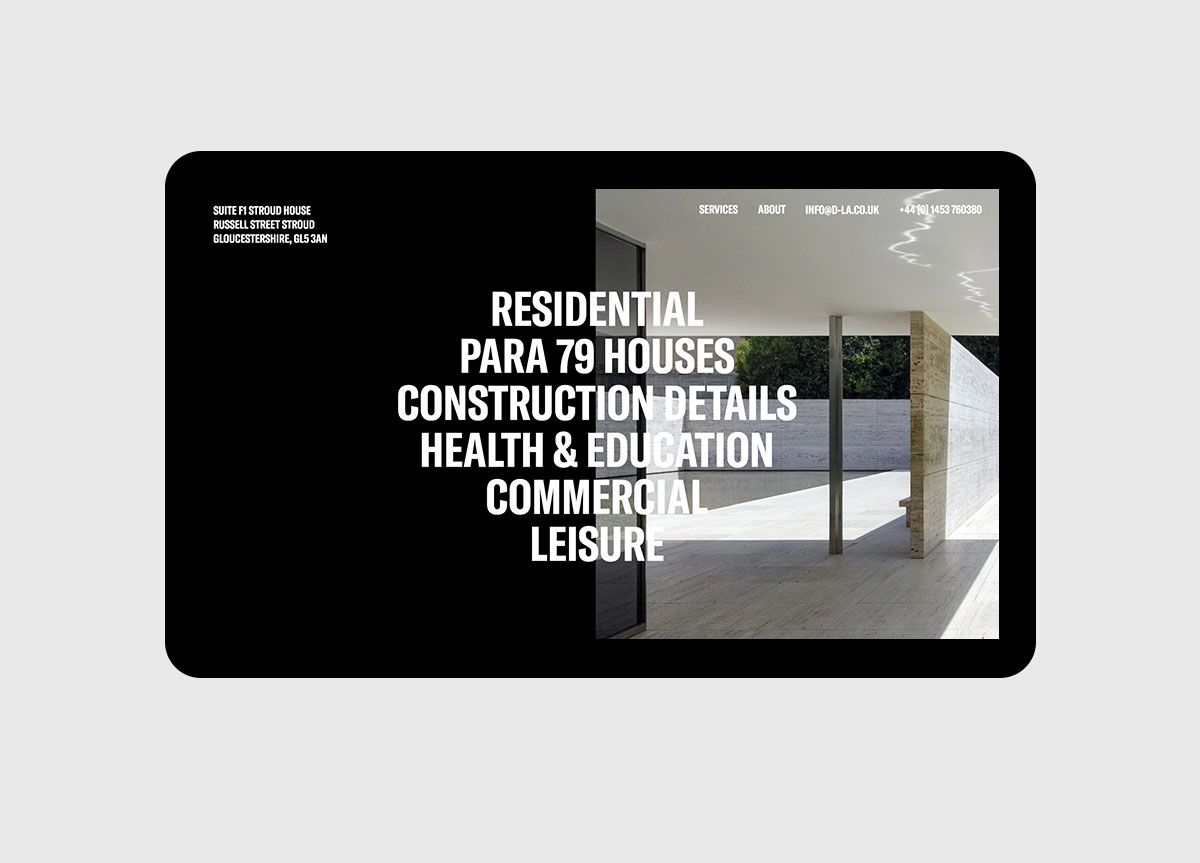
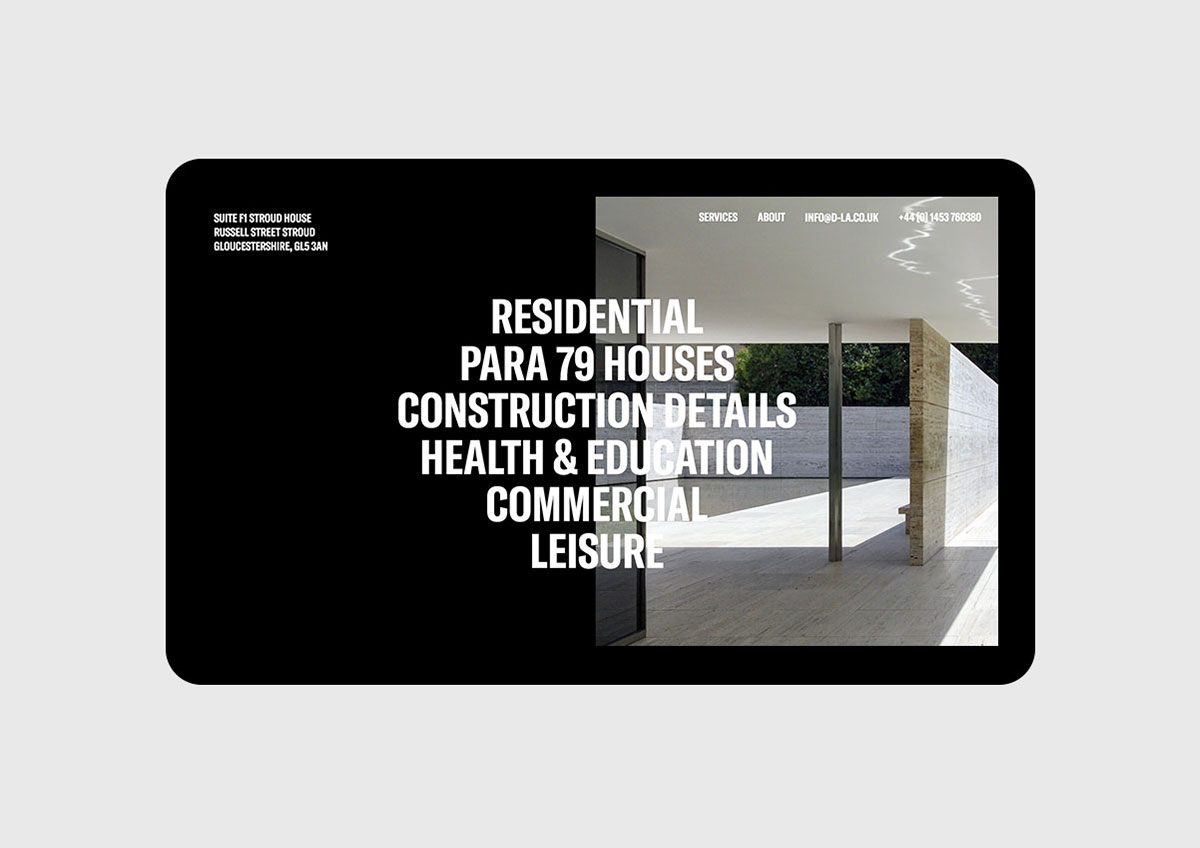
update media

Changed region(s): [[0.1233, 0.1533, 0.8633, 0.7052], [0.1233, 0.7052, 0.8633, 0.8278]]

diff --git a/app/src/views/single/style.scss b/app/src/views/single/style.scss
@@ -28,7 +28,13 @@
                 padding-top: 0vh;
                 padding-bottom: 5vw;
                 h2 {
-                    font-size: 28px;
+                    font-size: 24px;
+                    line-height: 1.4em;
+
+                    small {
+                        font-size: 17px;
+                        margin-bottom: 0;
+                    }
                 }
             }
 

diff --git a/app/src/views/about/style.scss b/app/src/views/about/style.scss
@@ -28,8 +28,8 @@
 
             margin-top: -15vh;
 
-           font-size: 28px;
-           line-height: 1.2em;
+           font-size: 24px;
+           line-height: 1.4em;
 
            br {
                display: none;
